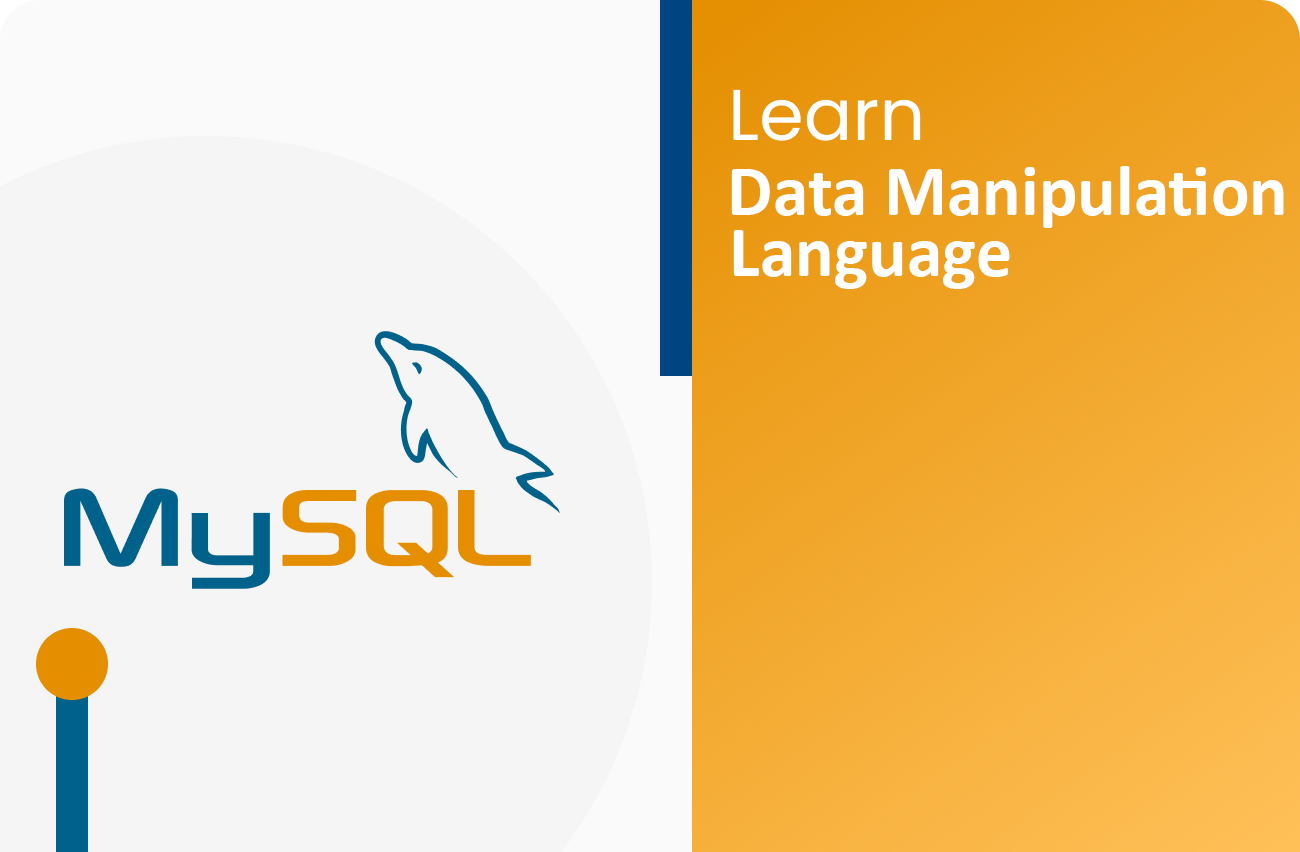
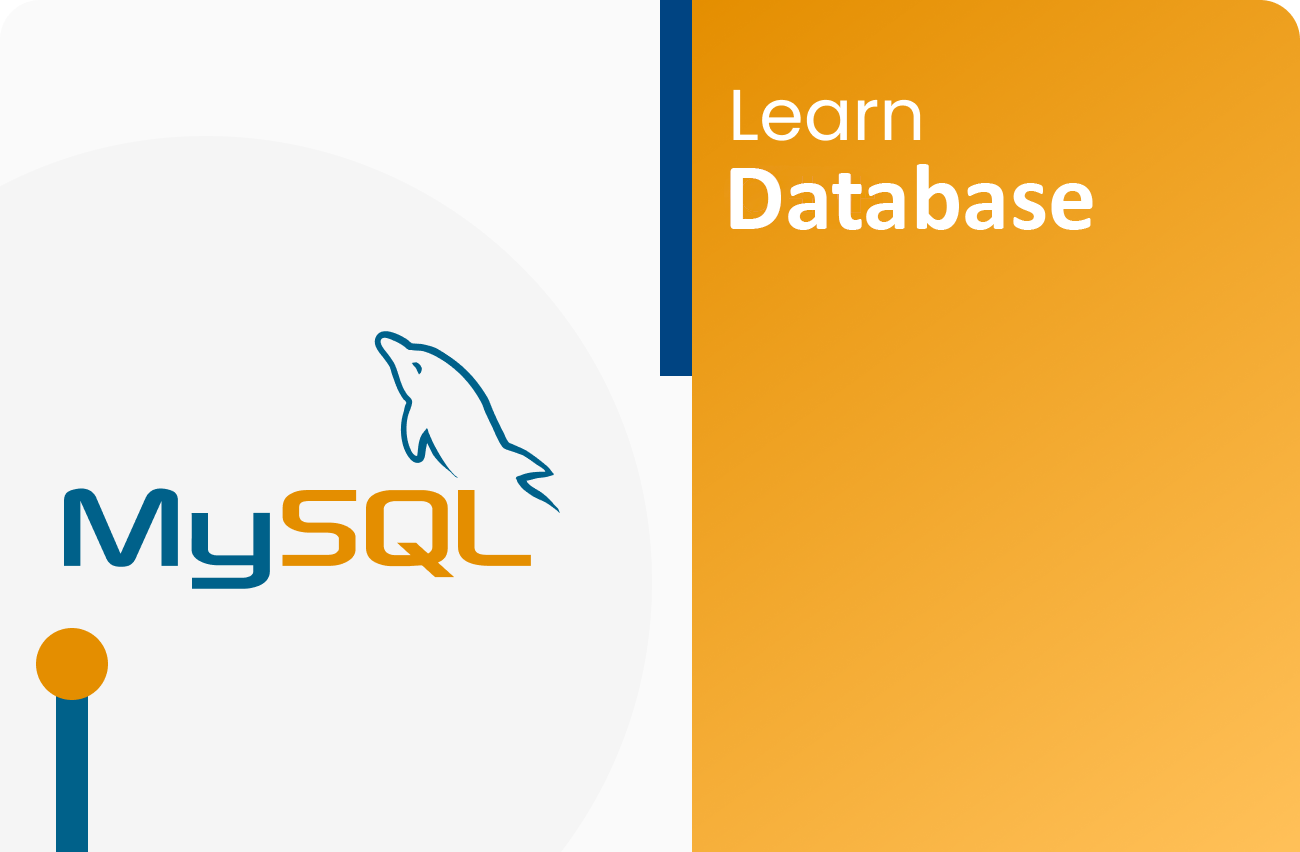
update : card and title

Changed region(s): [[0.5538, 0.1831, 1.0, 0.3357]]

diff --git a/resources/views/dashboard_student.blade.php b/resources/views/dashboard_student.blade.php
@@ -277,7 +277,7 @@
             <div class="card p-0" style="width: 305px; height: 375px; margin-left: 25px; box-shadow: 0px 0px 10px rgba(0, 0, 0, 0.1);">
                 <img src="{{asset("./images/cards/DML.png")}}" class="card-img-top" style="width: auto; height: 200px;">
                 <div class="card-body d-flex flex-column">
-                    <h5 class="card-title">Learn MySQL - Data Manipulation Languange</h5>
+                    <h5 class="card-title">Database Management System with MySQL</h5>
                     <div class="row align-items-start">
                         <div class="col-1">
                             <img src="{{asset("./images/book.png")}}" style="width: 13px; height: 16px;">
